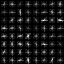
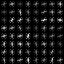
latest

diff --git a/features.py b/features.py
@@ -1,4 +1,5 @@
 #Feature extraction methods from project training lessons
+import argparse
 import numpy as np
 import cv2
 import matplotlib.pyplot as plt
@@ -25,15 +26,15 @@ def get_hog_features(img,
                      orient=ORIENT, 
                      pix_per_cell=PIX_PER_CELL, 
                      cell_per_block=CELL_PER_BLOCK, 
-                     vis=True, 
-                     feature_vec=True):
+                     vis=False, 
+                     feature_vec=False):
     # Call with two outputs if vis==True
     if vis == True:
         features, hog_image = hog(img, orientations=orient, 
                                   pixels_per_cell=(pix_per_cell, pix_per_cell),
                                   cells_per_block=(cell_per_block, cell_per_block), 
                                   transform_sqrt=False, 
-                                  visualise=vis, feature_vector=feature_vec)
+                                  visualise=True, feature_vector=feature_vec)
         return features, hog_image
     # Otherwise call with one output
     else:      
@@ -41,7 +42,7 @@ def get_hog_features(img,
                        pixels_per_cell=(pix_per_cell, pix_per_cell),
                        cells_per_block=(cell_per_block, cell_per_block), 
                        transform_sqrt=False, 
-                       visualise=vis, feature_vector=feature_vec)
+                       visualise=False, feature_vector=feature_vec)
         return features
 
 def bin_spatial(img, size=SPATIAL_SIZE):
@@ -107,6 +108,11 @@ def extract_features(imgs,
     return features
 
 if __name__ == '__main__':
-    images = glob.glob('vehicles/MiddleClose/*.png')
+    parser = argparse.ArgumentParser()
+    parser.add_argument('--dir', type=str, default='.',
+                        help='directory to read vehicle/non-vehicle image files from')
+    FLAGS, unparsed = parser.parse_known_args()
+
+    images = glob.glob('{}/vehicles/MiddleClose/*.png'.format(FLAGS.dir))
     features = extract_features(images)
     print('features: {}'.format(features[0].shape))

diff --git a/hog.py b/hog.py
@@ -2,11 +2,17 @@ from parameters import *
 import matplotlib.image as mpimg
 import numpy as np
 from features import convert_color, get_hog_features
+import argparse
 
 if __name__ == '__main__':
-    car_img = mpimg.imread('vehicles/MiddleClose/image0000.png')
+    parser = argparse.ArgumentParser()
+    parser.add_argument('--dir', type=str, default='.',
+                        help='directory to read vehicle/non-vehicle image files from')
+    FLAGS, unparsed = parser.parse_known_args()
+
+    car_img = mpimg.imread('{}/vehicles/MiddleClose/image0000.png'.format(FLAGS.dir))
     cvt_car_img = convert_color(car_img, COLOR_SPACE)
-    non_car_img = mpimg.imread('non-vehicles/MiddleClose/image0000.png')
+    non_car_img = mpimg.imread('{}/non-vehicles/MiddleClose/image0000.png'.format(FLAGS.dir))
     cvt_noncar_img = convert_color(non_car_img, COLOR_SPACE)
 
     ch1_car = car_img[:, :, 0]
@@ -30,9 +36,9 @@ if __name__ == '__main__':
     mpimg.imsave('output_images/car_hog_ch1.png', car_hog_image1, cmap='gray')
     mpimg.imsave('output_images/car_hog_ch2.png', car_hog_image2, cmap='gray')
     mpimg.imsave('output_images/car_hog_ch3.png', car_hog_image3, cmap='gray')
-    mpimg.imsave('output_images/car.png', cvt_car_img)
+    mpimg.imsave('output_images/car.png', ch1_car)
 
     mpimg.imsave('output_images/noncar_hog_ch1.png', non_car_hog_image1, cmap='gray')
     mpimg.imsave('output_images/noncar_hog_ch2.png', non_car_hog_image2, cmap='gray')
     mpimg.imsave('output_images/noncar_hog_ch3.png', non_car_hog_image3, cmap='gray')
-    mpimg.imsave('output_images/noncar.png', cvt_noncar_img)
+    mpimg.imsave('output_images/noncar.png', ch1_noncar)

diff --git a/video_creator.py b/video_creator.py
@@ -18,7 +18,7 @@ image_folder = "frames/"
 video_file = 'processed_video.avi'
 writer = cv2.VideoWriter("{}".format(video_file), cv2.VideoWriter_fourcc(*"MJPG"), 25., (1280,720))
 
-images = glob.glob('{}*jpg'.format(image_folder))
+images = glob.glob('{}*png'.format(image_folder))
 print('converting images to video..')
 for idx, image in enumerate(sorted(images)):
     progress(idx+1, len(images))
